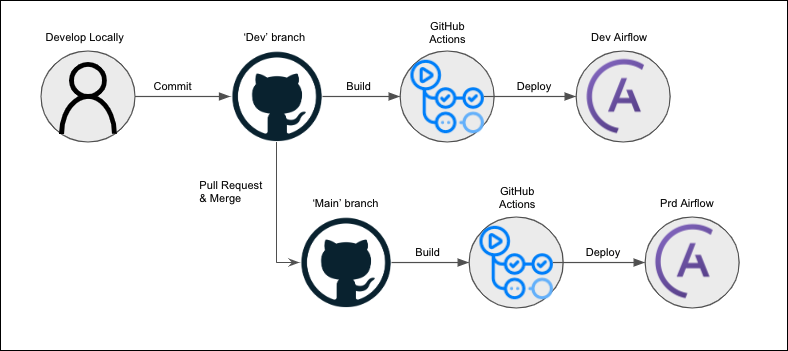
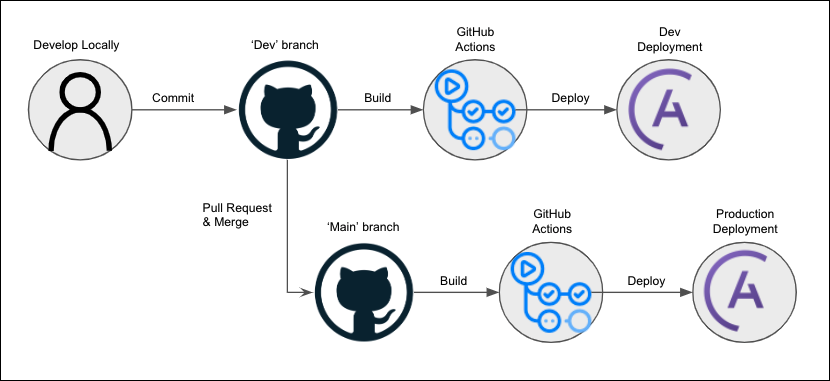
Update for review

Changed region(s): [[0.0305, 0.057, 0.9746, 0.9117], [0.0, 0.9972, 1.0, 1.0]]

diff --git a/astro/ci-cd.md b/astro/ci-cd.md
@@ -99,14 +99,14 @@ To automate code deploys to a Deployment using [GitHub Actions](https://github.c
 
 ### GitHub Actions (Multiple Branches)
 
-The following setup can be used to create a multi-branch CI/CD pipeline using GitHub Actions. The finished pipeline would deploy your code to Astro as demonstrated in the following diagram:
+The following setup can be used to create a multi-branch CI/CD pipeline using GitHub Actions. A multi-branch pipeline makes can be used to test DAGs in a development Deployment and promote them to a production Deployment. The finished pipeline would deploy your code to Astro as demonstrated in the following diagram:
 
 ![Diagram showing how a multibranch CI/CD pipeline works](/img/docs/multibranch.png)
 
 This setup assumes the following prerequisites:
 
 - You have both a `dev` and `main` branch of an Astro project hosted in a single GitHub repository.
-- You have respective `dev` and `prod` Deployments on Astro where you deploy your GitHub branches.
+- You have respective `dev` and `prod` Deployments on Astro where you deploy the code in your GitHub branches.
 - You have unique [Deployment API keys and secrets](api-keys.md) for both of your Deployments.
 
 1. Set the following as [GitHub secrets](https://docs.github.com/en/actions/reference/encrypted-secrets#creating-encrypted-secrets-for-a-repository):
@@ -121,7 +121,7 @@ This setup assumes the following prerequisites:
 2. In your project repository, create a new YAML file in `.github/workflows` that includes the following configuration:
 
     ```yaml
-    name: Astronomer CI - Deploy Code
+    name: Astronomer CI - Deploy Code (Multiple Branches)
 
     on:
       push:
